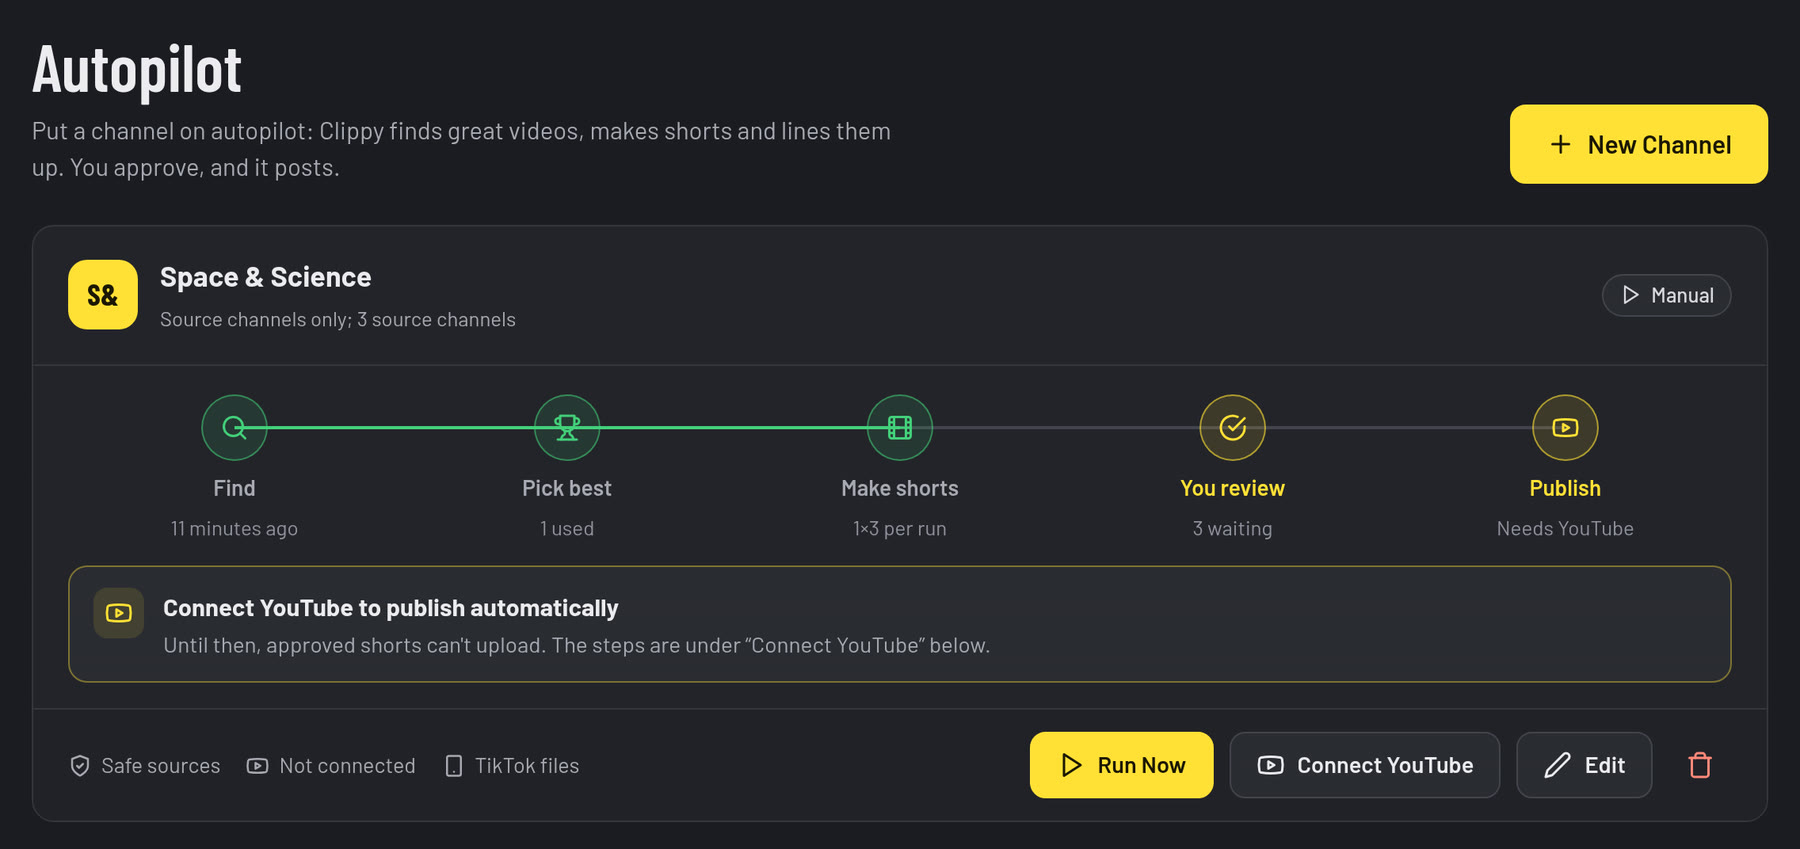
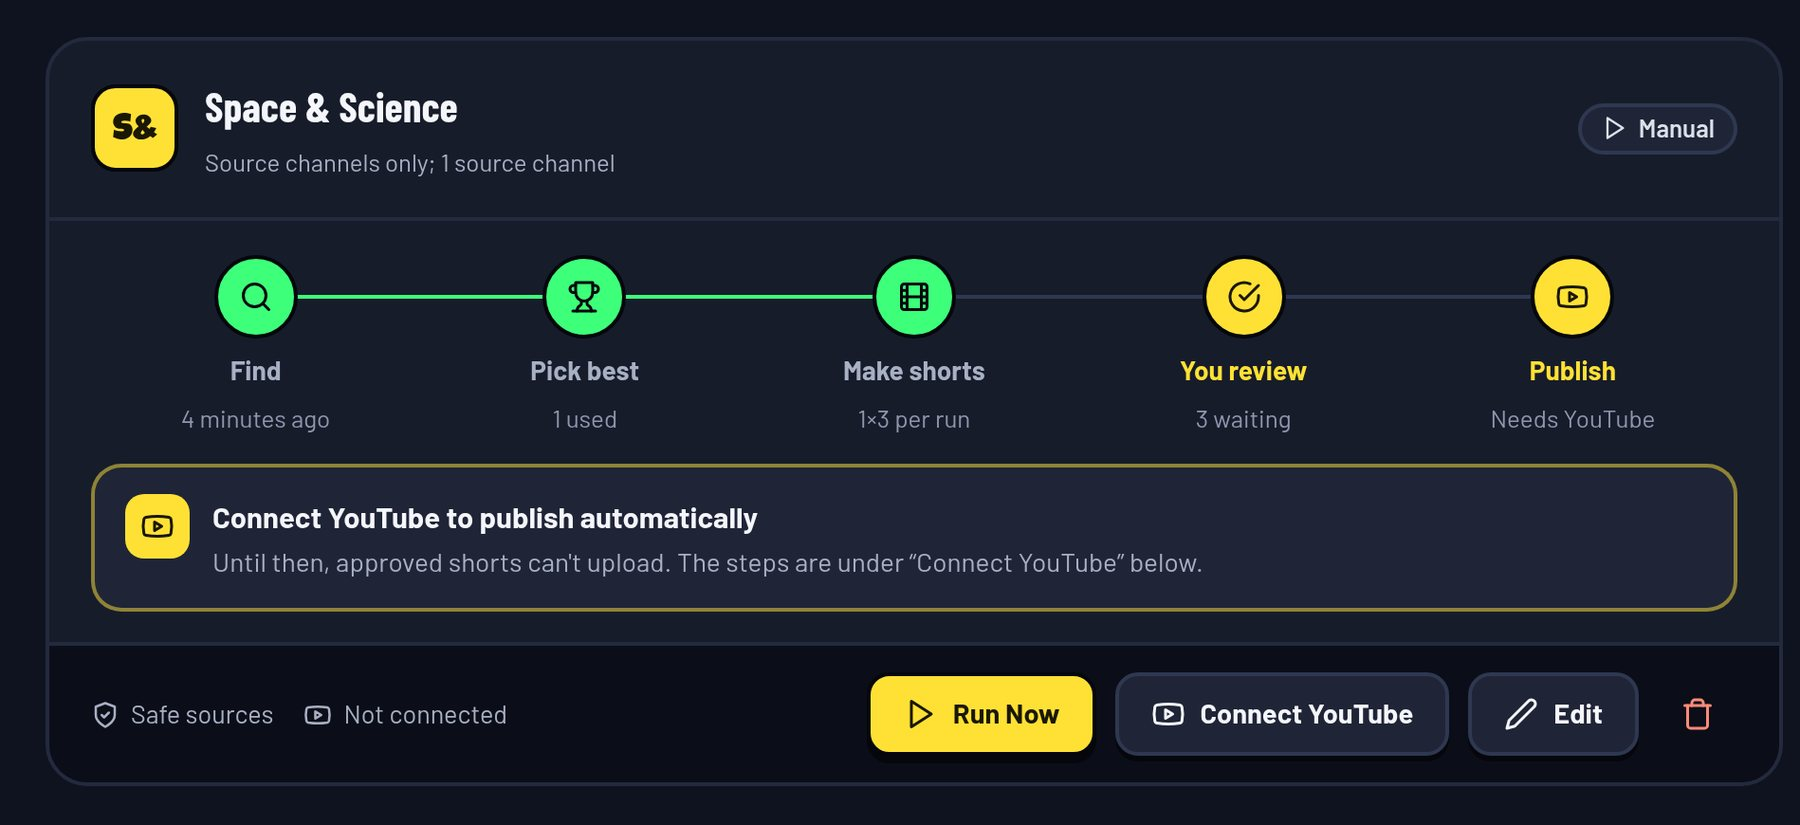
README: the new look, Top countdowns and two themes; test guide points at releases
New screenshots of Review, Find videos and Autopilot in the caption-print look, and a real countdown
(Top 3 craziest moments), all made by Clippy from public-domain NASA videos. The model-choice text
matches how Clippy picks a model now.

diff --git a/README.md b/README.md
@@ -39,6 +39,10 @@ and the picture instead.
 kind, #3, #2 and then #1, each with a big rank card: the funniest, craziest, most shocking or most wholesome moments.
 For the funniest, laughter and loud reactions count too. Extensions add more kinds.
 
+<img src="docs/media/countdown.jpg" width="100%" alt="Four frames of one countdown short made from a NASA video: the title Top 3 Craziest Moments, then rank cards #3 Billion Galaxies Survey, #2 Rogue Planets Drifting and #1 Universe Speeding Up, each above word-by-word captions">
+
+<sub>A real countdown, made by Clippy from a public-domain NASA Goddard video.</sub>
+
 **Extensions.** The Extensions page installs caption styles, countdown themes, sound effects and Find Videos topics
 that other people made, from the community list or a link. Extensions with code stay off until you say you trust
 them. [Make your own](docs/extensions.md).
@@ -128,6 +132,9 @@ Colours, size, position and words per line are all adjustable.
 Approved shorts upload to YouTube (optionally spaced out, e.g. one every 4 hours) or are exported with a caption
 file for posting to TikTok from your phone.
 
+**Two looks.** Caption print (above) sets titles like the captions in your shorts; Classic is calmer. Switch under
+Settings → Theme.
+
 ## Requirements
 
 - **Windows 10/11**: the app above brings everything it needs.
@@ -153,7 +160,9 @@ is running on this PC (or, from WSL, on the Windows side) on these apps' usual p
 | [Jan](https://jan.ai), [KoboldCpp](https://github.com/LostRuins/koboldcpp), [vLLM](https://github.com/vllm-project/vllm) | `:1337`, `:5001`, `:8000` | Turn on the app's local API server |
 | Anything else OpenAI-compatible | your address | Enter it under **Settings → AI**, with an API key for cloud services |
 
-**Which model:** Clippy uses the model already loaded, otherwise your newest download, and skips embedding models.
+**Which model:** Clippy prefers a Qwen 3 model (its instructions are written for it). On Ollama that's any Qwen 3 you
+downloaded; on apps that only serve what's loaded, the loaded model comes first. Models made for one job (embeddings,
+translation, code) are only used when nothing else is there.
 Pick another one under **Settings → AI**, which lists every server and model it found. In the terminal,
 `clippy ai` shows the same, and `clippy ai test` sends a real request and times it.
 

diff --git a/docs/testing-windows-nvidia.md b/docs/testing-windows-nvidia.md
@@ -9,14 +9,15 @@ It takes about an hour, most of it waiting for downloads. Write down what you se
 marked **Note:**. If something goes wrong, take a screenshot (Windows key + Shift + S) and keep the two log files
 listed at the end.
 
-## Get the test version
+## Get Clippy
 
-1. On Windows, open the latest test build:
-   [github.com/StormAmdam/clippy/actions/workflows/windows-app.yml](https://github.com/StormAmdam/clippy/actions/workflows/windows-app.yml?query=branch%3Awindows-app).
-   Click the top run with a green tick.
-2. Sign in to GitHub if it asks (downloads there need an account).
-3. Scroll down to **Artifacts** and click **Clippy-windows-0.1.0-dev.…** (about 360 MB). It downloads as a zip.
-4. Open the zip and drag **Clippy-Setup-0.1.0-dev.…-win64.exe** out to your Desktop.
+Download **Clippy-Setup-…-win64.exe** from the
+[latest release](https://github.com/StormAmdam/clippy/releases/latest).
+
+To test a change before it's released: open
+[the Windows builds](https://github.com/StormAmdam/clippy/actions/workflows/windows-app.yml), click the newest run
+with a green tick (sign in to GitHub if it asks), scroll to **Artifacts**, download **Clippy-windows-…**, and take
+the setup file out of the zip.
 
 ## Before you start
 
